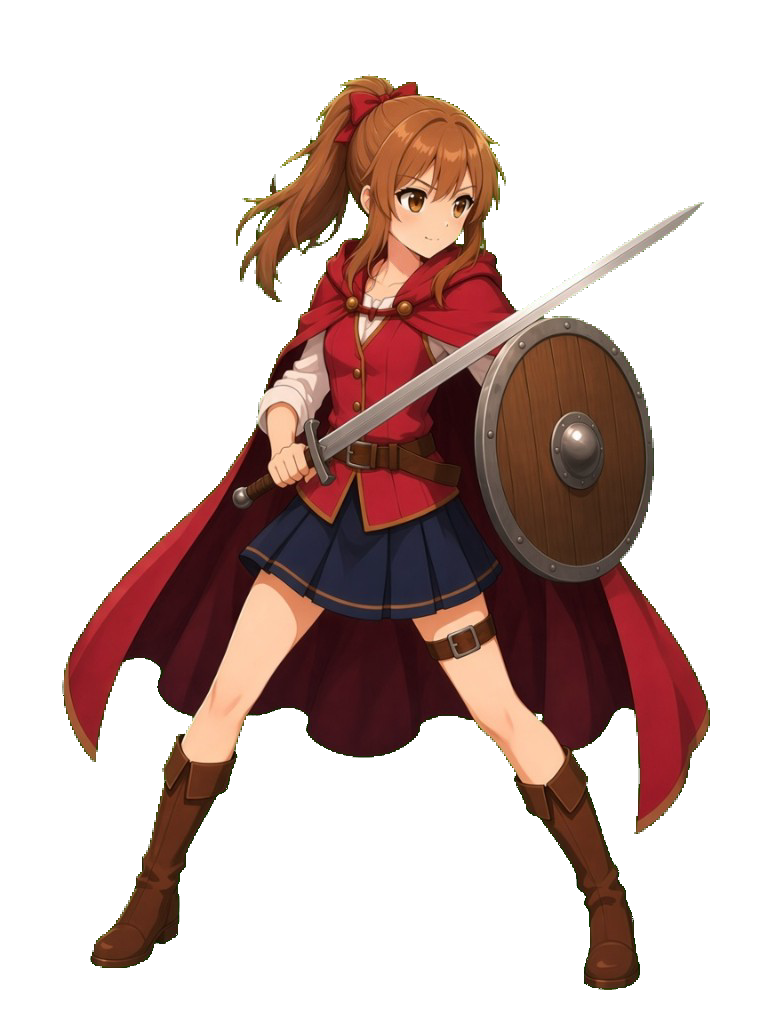
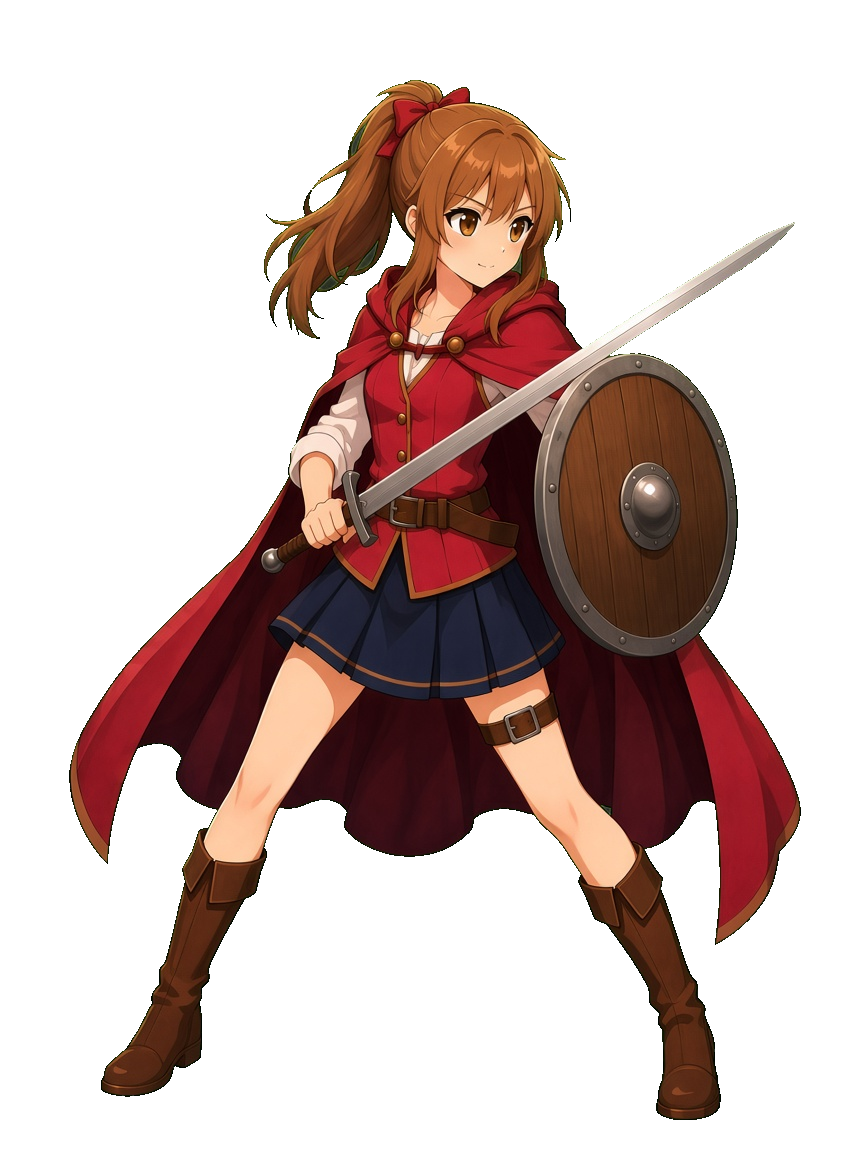
女の戦士の戦闘絵を緑なしのきれいな透過にする

diff --git a/index.html b/index.html
@@ -4953,7 +4953,7 @@
         stand: "job-front.png?v=5",
         chibi: "job-warrior.png?v=9",
         action: "job-action.jpg?v=3",
-        battle: "hero-shoulder.png?v=25",
+        battle: "hero-shoulder.png?v=26",
         battleRatio: "864 / 1152",
         defeat: "warrior-defeat.png?v=3",
         victory: "warrior-victory.png?v=3",
@@ -4965,7 +4965,7 @@
         stand: "girl-front.png?v=10",
         chibi: "job-girl.png?v=5",
         action: "girl-action.jpg?v=3",
-        battle: "girl-battle.png?v=19",
+        battle: "girl-battle.png?v=20",
         battleRatio: "3 / 4",
         defeat: "girl-defeat.png?v=8",
         victory: "girl-victory.png?v=9",
@@ -8178,14 +8178,14 @@
             <h3>戦士</h3>
             <div class="ref-grid pose-grid">
               ${sheetFig("job-front.png?v=5", "正面", "cut-ref")}
-              ${sheetFig("hero-shoulder.png?v=25", "戦闘（ポケモンの画角）", "cut-ref")}
+              ${sheetFig("hero-shoulder.png?v=26", "戦闘（ポケモンの画角）", "cut-ref")}
               ${sheetFig("warrior-defeat.png?v=3", "敗北", "cut-ref")}
               ${sheetFig("warrior-victory.png?v=3", "勝利", "cut-ref")}
             </div>
             <h3>女の戦士</h3>
             <div class="ref-grid pose-grid">
               ${sheetFig("girl-front.png?v=10", "キャラデザ", "cut-ref")}
-              ${sheetFig("girl-battle.png?v=19", "戦闘", "cut-ref")}
+              ${sheetFig("girl-battle.png?v=20", "戦闘", "cut-ref")}
             </div>
             <div class="ref-grid">
               ${sheetFig("girl-defeat.png?v=8", "敗北", "land-ref", "wide-land")}
